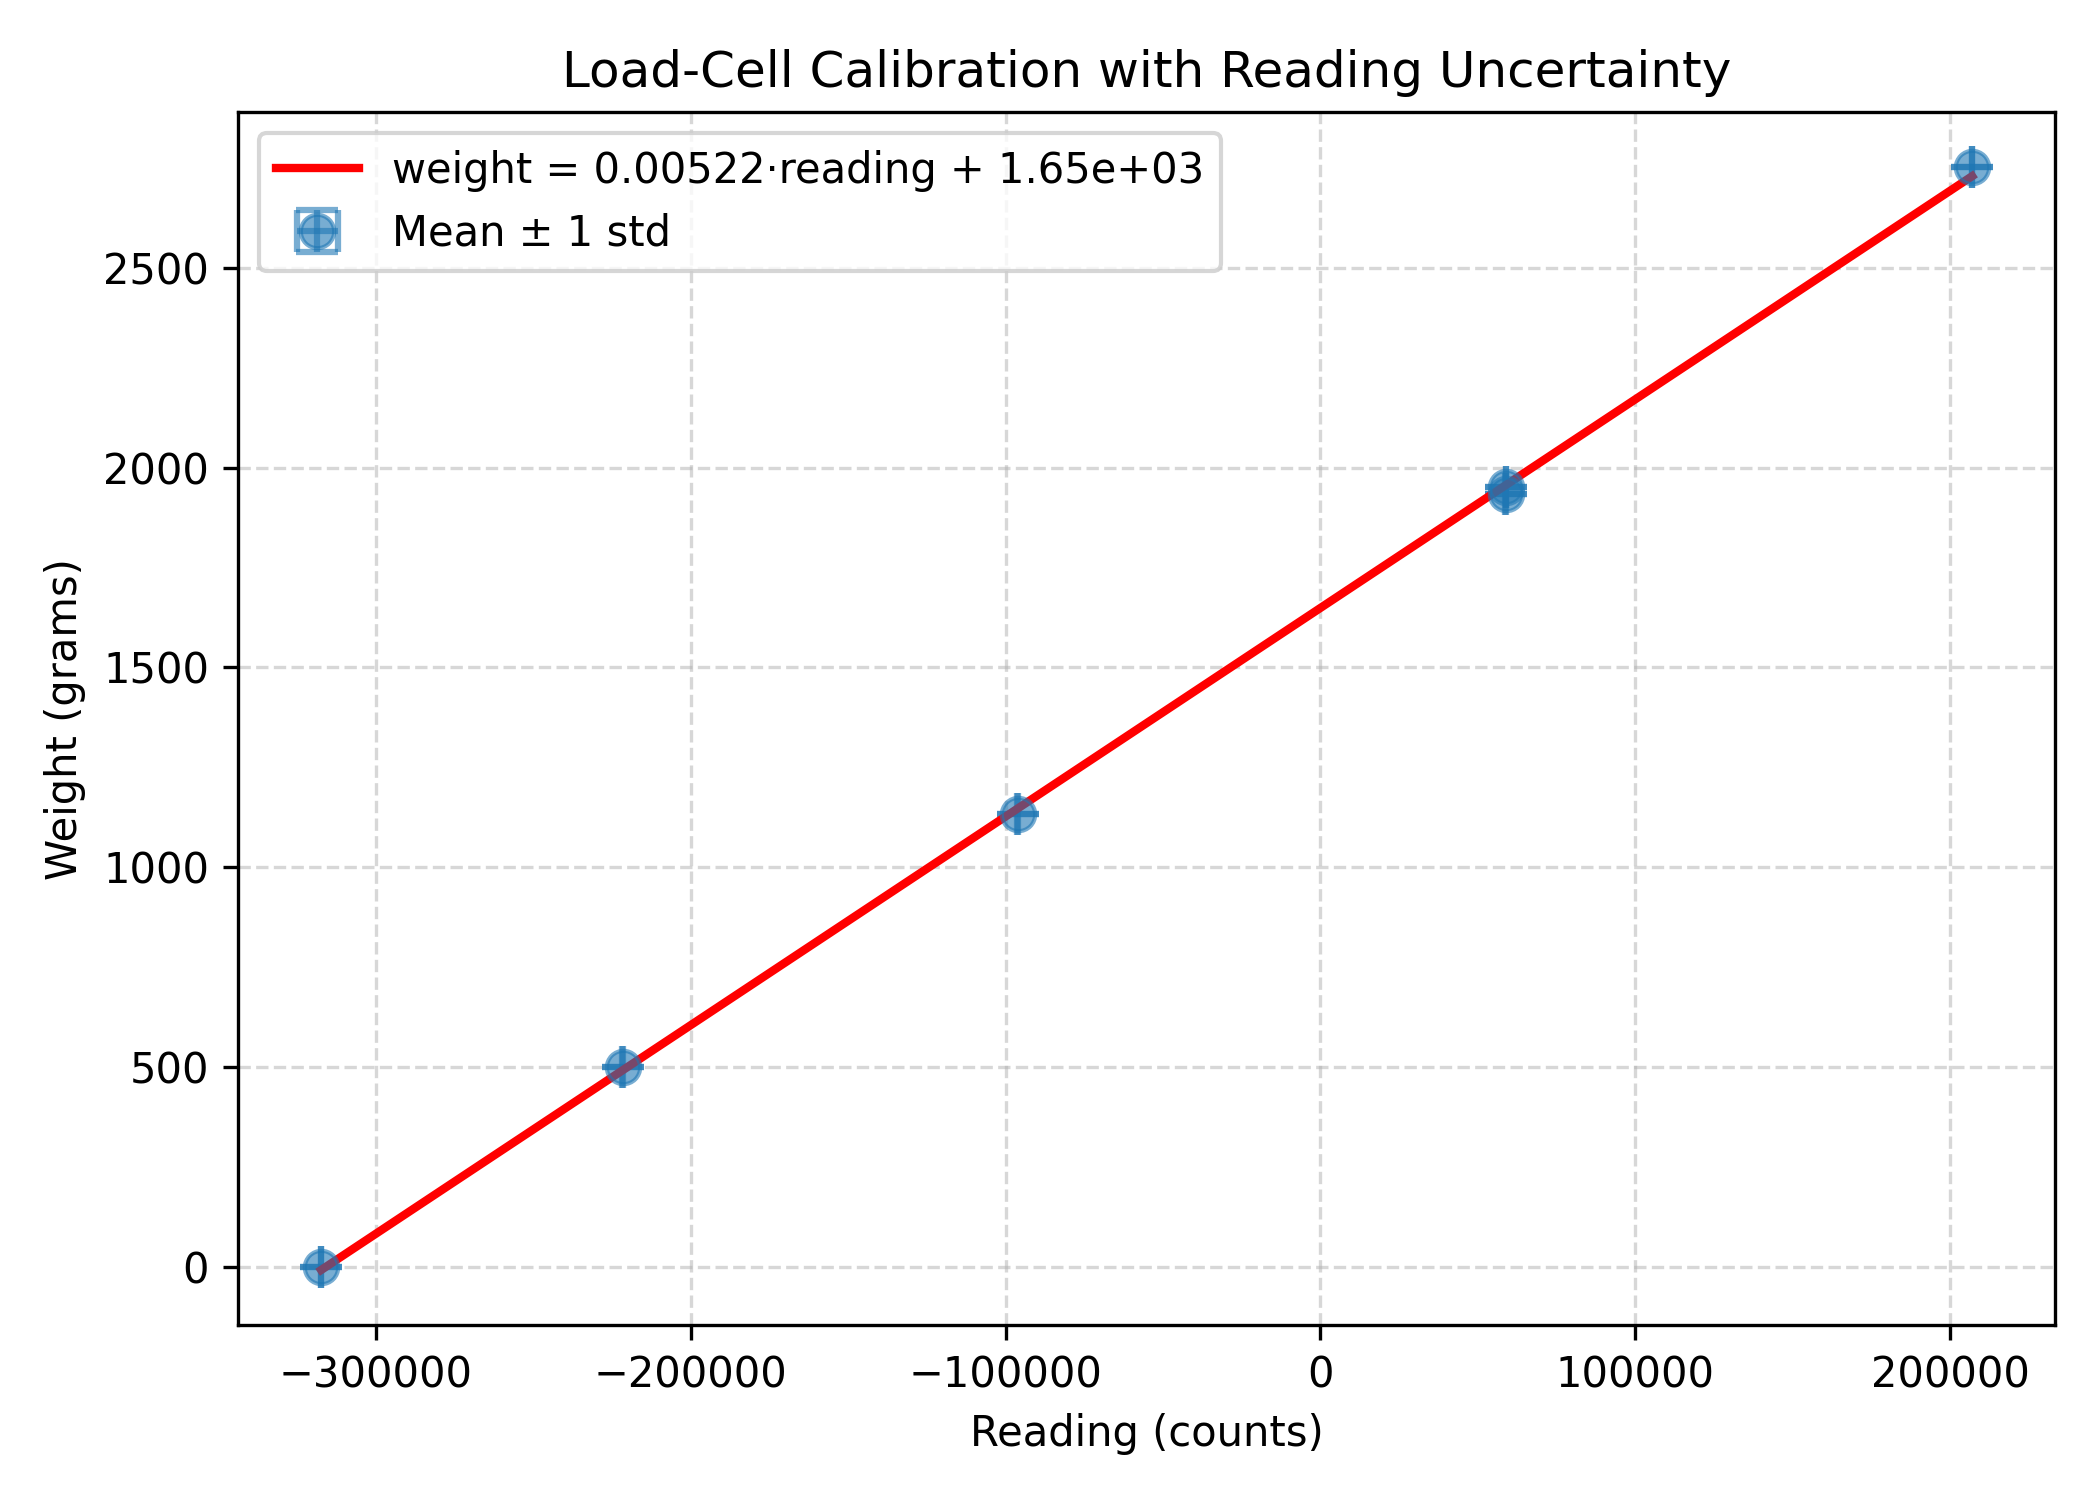
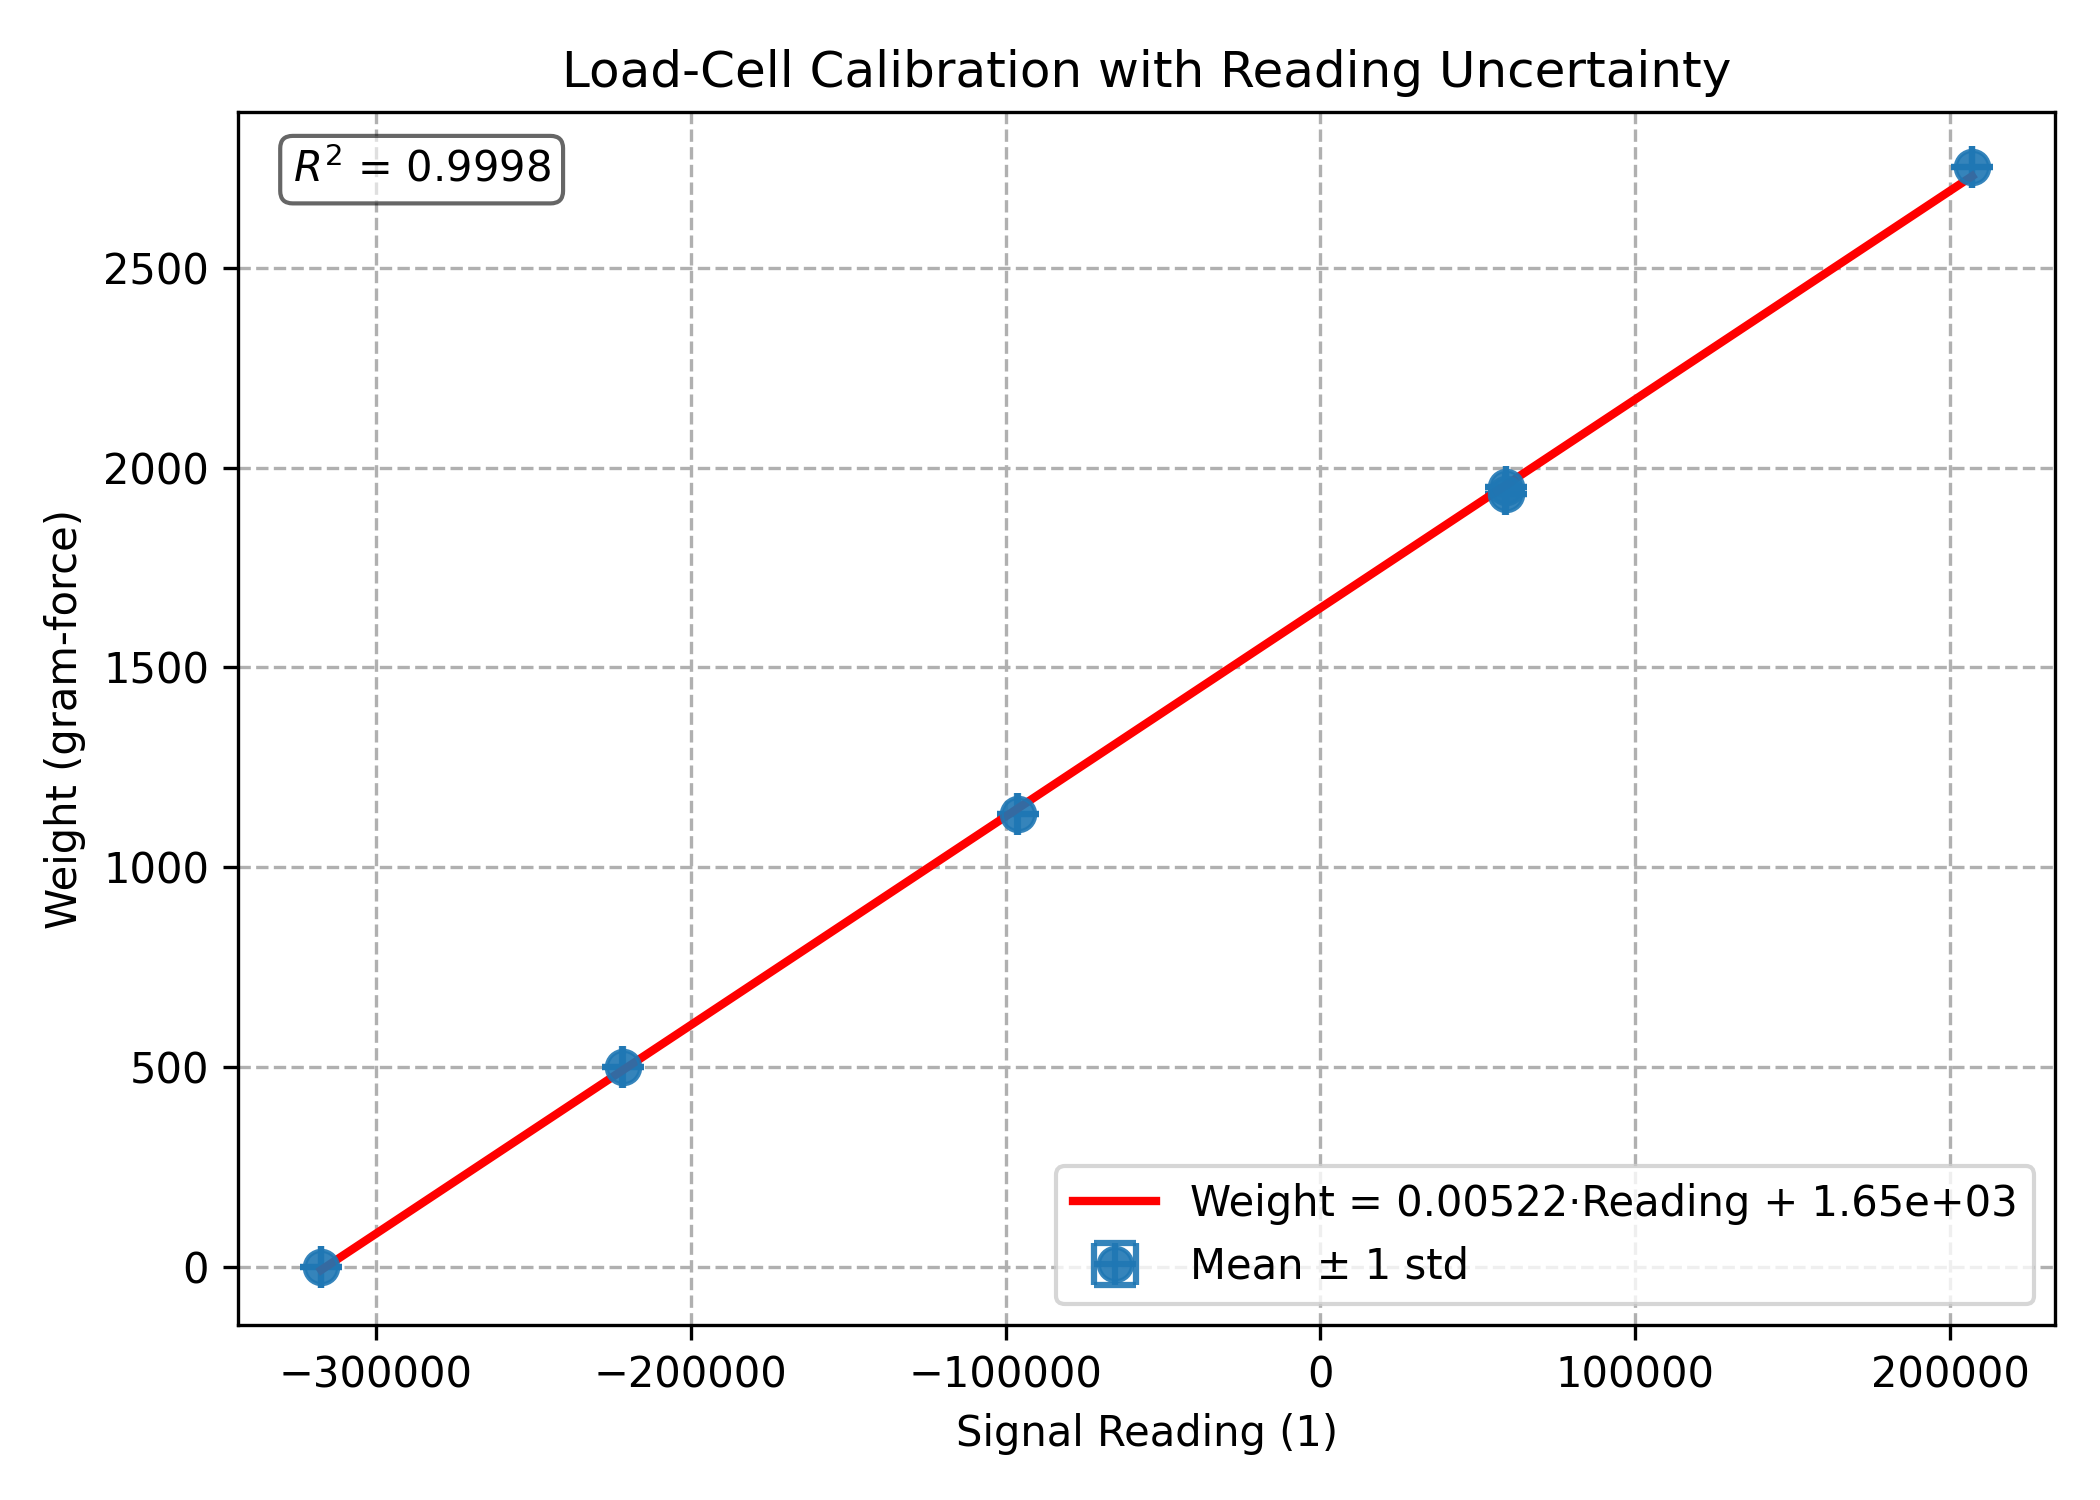
Things have changed

diff --git a/ThrustRegression.py b/ThrustRegression.py
@@ -3,14 +3,14 @@ import pandas as pd
 import matplotlib.pyplot as plt
 
 # Load data: CSV where the first row = column headers = PWM values (microseconds)
-
-csv_path = "Prop_10VThrusts.csv"   # <- change this to your CSV if needed
+Voltage = 10  # voltage setting during data collection
+csv_path = f"Prop_{Voltage}VThrusts.csv"   # <- change this to your CSV if needed
 df = pd.read_csv(csv_path)
 
 # Column names are strings; convert them to floats to get numeric PWM
 PWM = df.columns.astype(float)   # e.g., ['50','100'] -> array([50., 100.])
 
-readings_df = df.apply(pd.to_numeric)
+readings_df = df.apply(pd.to_numeric) * (15.5 / 6)
 
 means  = readings_df.mean(axis=0).to_numpy()               
 stds   = readings_df.std(axis=0, ddof=1).to_numpy()        
@@ -72,7 +72,7 @@ y_line = m * x_line + b                              # corresponding fitted gram
 plt.figure(figsize=(7, 5))
 
 # Scatter of all individual gram thrust values
-plt.scatter(x_all, y_all, s=12, alpha=0.4, label="All gram thrust values", color="gray")
+plt.scatter(x_all, y_all, s=12, alpha=0.4, label="Individual readings", color="gray")
 
 # Error bars showing mean ± std at each PWM level
 plt.errorbar(
@@ -81,11 +81,10 @@ plt.errorbar(
     yerr=stds, 
     fmt='o', 
     markersize=8, 
-    color='blue', 
+    alpha=.9,
     capsize=5, 
-    capthick=2,
-    label=f"Mean ± Std Dev (n={counts.astype(int)})",
-    zorder=3
+    capthick=1.5,
+    label="Mean ± 1 std"
 )
 
 # Best-fit line for gram thrust = m * PWM + b (linear regression)
@@ -94,17 +93,22 @@ plt.plot(
     y_line,
     linewidth=2,
     color='red',
-    label=f"gram thrust = {m:.3g}·PWM + {b:.3g}\n$R^2$ = {r2_rb:.4f}",
+    label=f"Thrust = {m:.3g}·PWM + {b:.3g}",
 )
 
-plt.xlabel("Throttle (PWM) us")
-plt.ylabel("Gram Thrust (g)")
-plt.title("Thrust Calibration: Gram Thrust vs. PWM")
+plt.xlabel("Throttle [PWM] (us)")
+plt.ylabel("Thrust (gram-force)")
+plt.title(f"Thrust Pulse Width Mapping ({Voltage}V)")
 
 # Light grid to help visually line up points with the axes
-plt.grid(True, which="both", linestyle="--", alpha=0.5)
-plt.legend(loc="best")
+plt.grid(True, which="both", linestyle="--", alpha=1)
+plt.legend(loc="lower right")
 plt.tight_layout()
 
-# Save to file (nice for SSH/headless Pi); you can open this later
+
+
+# also add R^2 as text on the plot (top-left), then save a second copy
+plt.gca().text(0.03, 0.97, f"$R^2$ = {r2_rb:.4f}", transform=plt.gca().transAxes,
+               fontsize=10, verticalalignment='top', bbox=dict(boxstyle='round', facecolor='white', alpha=0.6))
 plt.savefig("ThrustPlot.png", dpi=300)
+plt.close()

diff --git a/LoadCellRegression.py b/LoadCellRegression.py
@@ -23,6 +23,13 @@ counts = readings_df.count(axis=0).to_numpy()
 a, c = np.polyfit(means, weights, 1)
 x_hat = a * means + c
 
+# --- Coefficient of determination (R^2) ---
+# R^2 = 1 - SS_res/SS_tot where SS_res = sum((y - y_hat)^2)
+ss_res = np.sum((weights - x_hat) ** 2)
+ss_tot = np.sum((weights - np.mean(weights)) ** 2)
+r2 = 1.0 - ss_res / ss_tot if ss_tot != 0 else float('nan')
+print(f"R^2: {r2:.6f}")
+
 
 # === Plot: readings vs weight with best-fit line and error bars ===
 x_line = np.linspace(means.min(), means.max(), 200)
@@ -31,14 +38,18 @@ y_line = a * x_line + c
 plt.figure(figsize=(7, 5))
 # Scatter plot with error bars showing ±1 std per weight
 weight_uncertainty = 0.01 
-plt.errorbar(means, weights, xerr=stds, yerr=weight_uncertainty, fmt='o', markersize=8, alpha=0.6, 
+plt.errorbar(means, weights, xerr=stds, yerr=weight_uncertainty, fmt='o', markersize=8, alpha=.9, 
              label="Mean ± 1 std", capsize=5, capthick=1.5)
 plt.plot(x_line, y_line, linewidth=2, color='red',
-         label=f"weight = {a:.3g}·reading + {c:.3g}")
-plt.xlabel("Reading (counts)")
-plt.ylabel("Weight (grams)")
+         label=f"Weight = {a:.3g}·Reading + {c:.3g}")
+plt.xlabel("Signal Reading (1)")
+plt.ylabel("Weight (gram-force)")
 plt.title("Load-Cell Calibration with Reading Uncertainty")
-plt.grid(True, which="both", linestyle="--", alpha=0.5)
+plt.grid(True, which="both", linestyle="--", alpha=1)
 plt.legend(loc="best")
 plt.tight_layout()
+# also add R^2 as text on the plot (top-left)
+plt.gca().text(0.03, 0.97, f"$R^2$ = {r2:.4f}", transform=plt.gca().transAxes,
+               fontsize=10, verticalalignment='top', bbox=dict(boxstyle='round', facecolor='white', alpha=0.6))
+# Save plot to file
 plt.savefig("Calibration.png", dpi=300)
